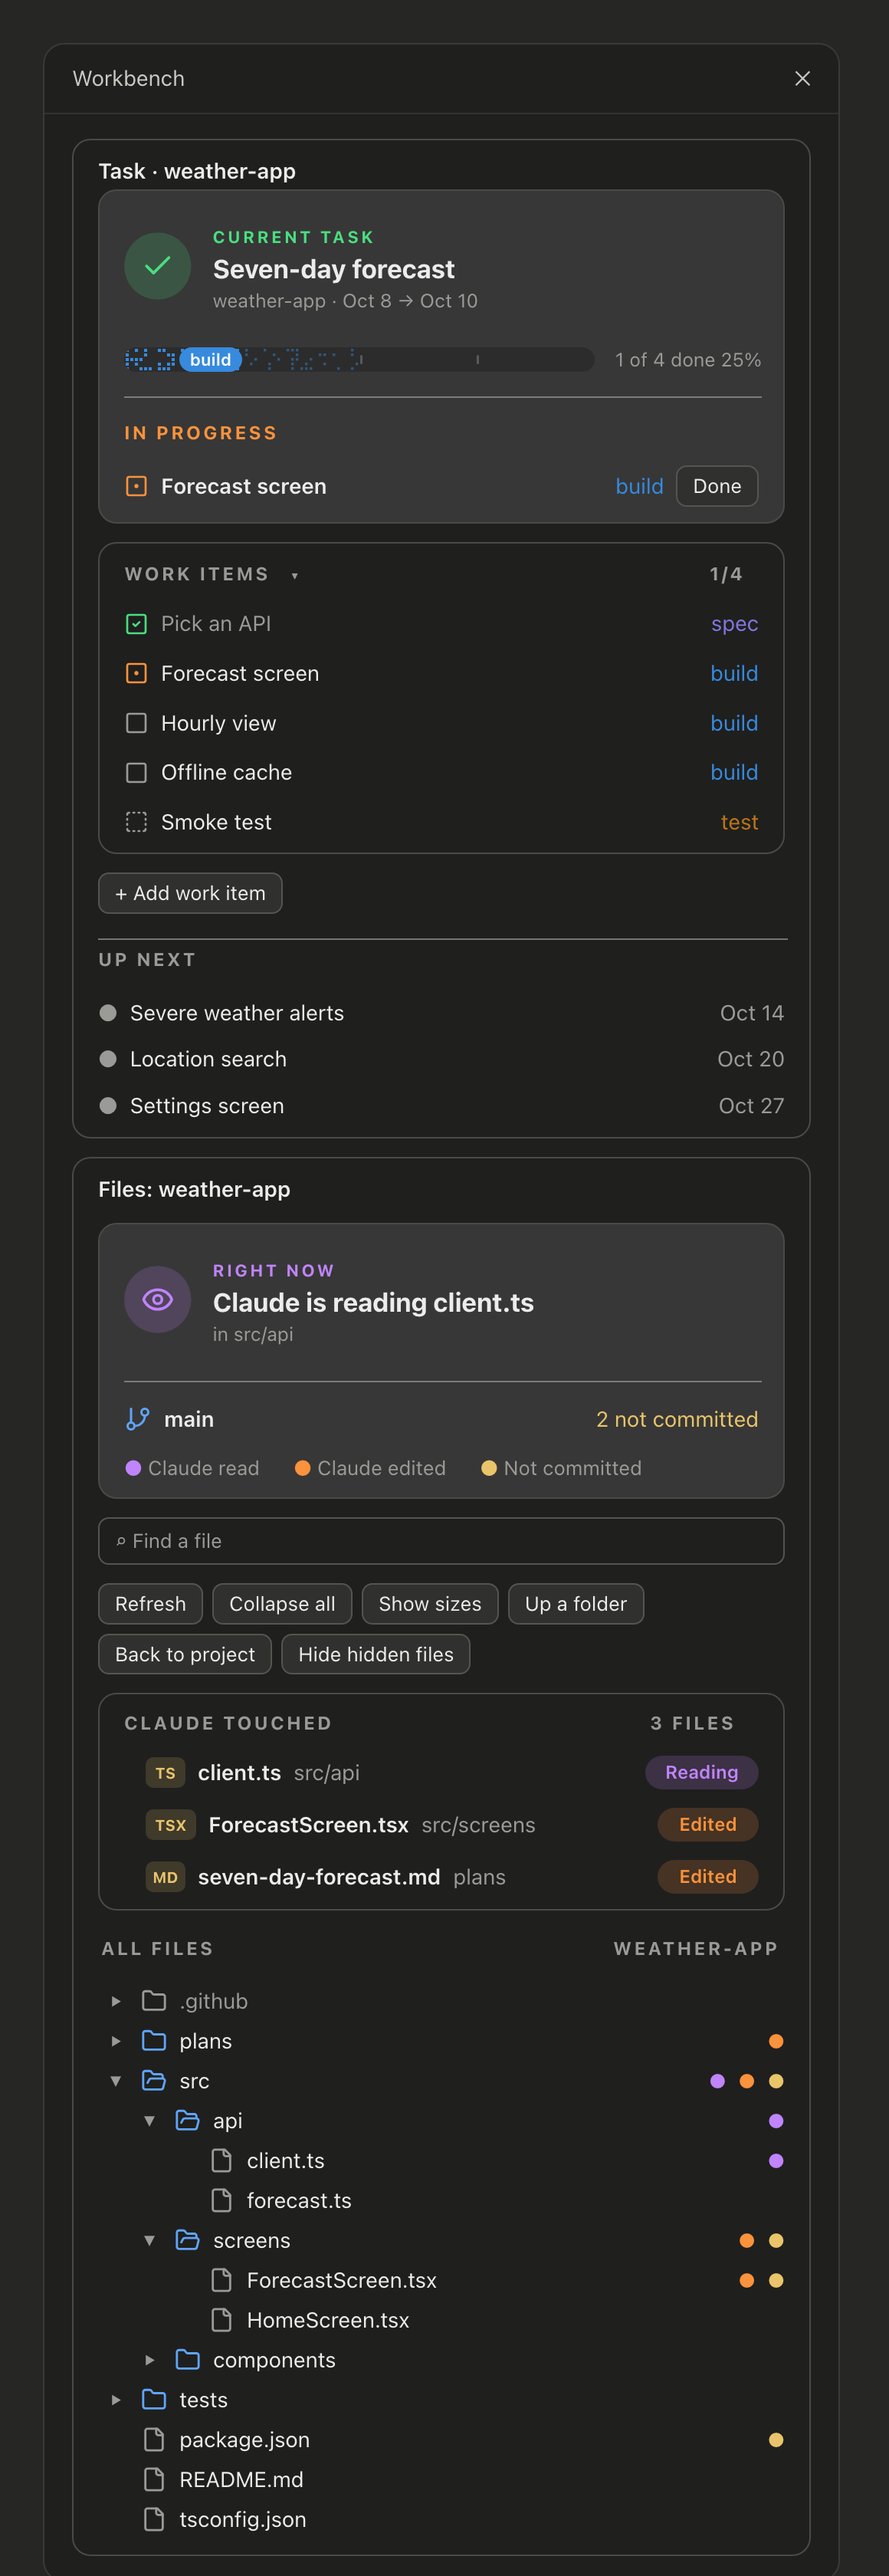
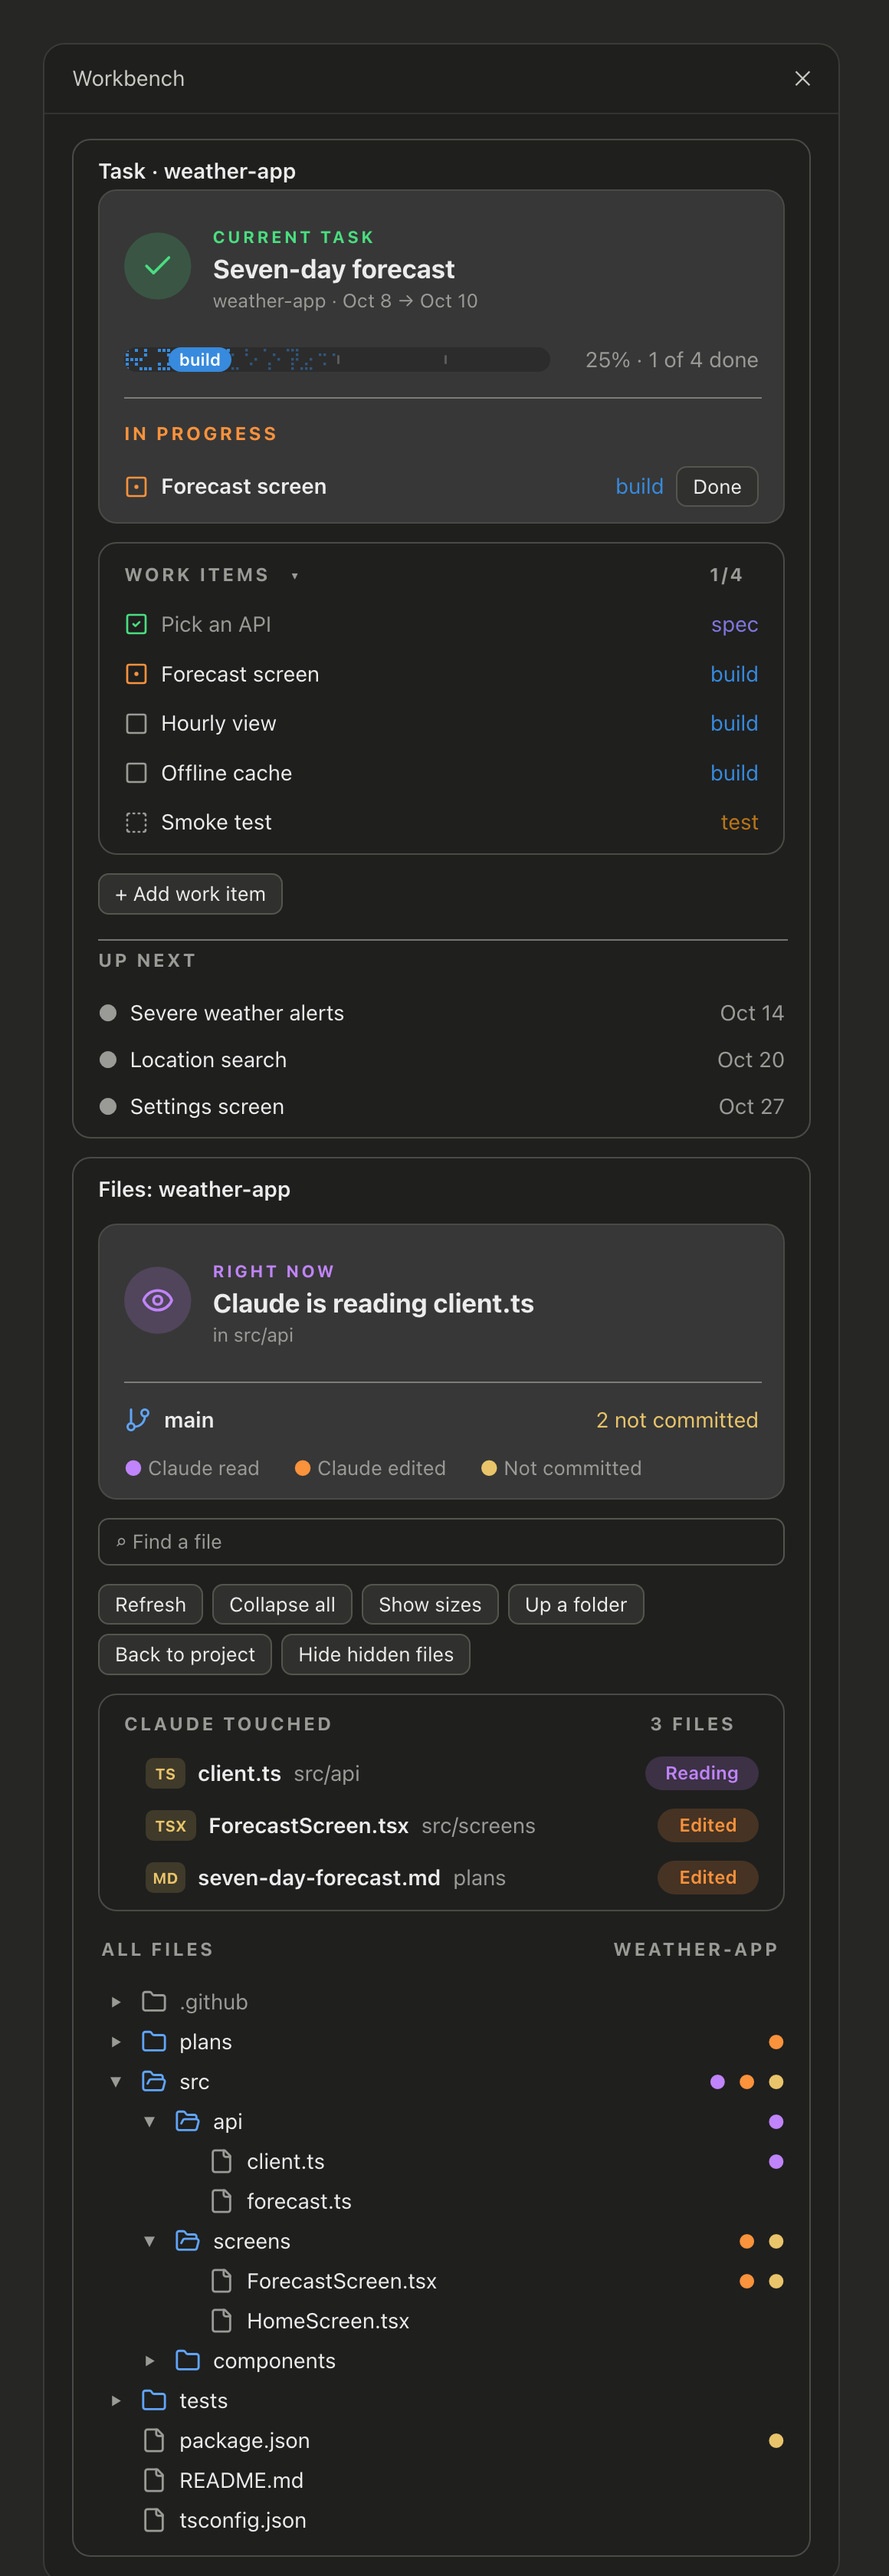
Pane bar row: the band's bar, then '0% · n of m done' flush with the card's right edge; mockup redrawn; 0.1.17

diff --git a/hooks/register.tsx b/hooks/register.tsx
@@ -3,7 +3,7 @@ import type { EngineInterface, Hook, Register } from 'claude-code'
 
 import type { DevEntry, Entry, Files, Git, Group, PaneUi, Snap, Touch, Activity, WorkbenchUi, WorkItem } from '../types'
 import type { BarIn } from './draw'
-import { ACCENT, bandBarSvg, bandTitleSvg, DOING, DONE, MUTED, STAGE_COLOR } from './draw'
+import { ACCENT, bandBarSvg, bandTitleSvg, DOING, DONE, MUTED, paneBarSvg, STAGE_COLOR } from './draw'
 import { activeItem, byStatus, clip, counts, localDate, newId, nextStatus, parseAdd, STAGES, TITLE_MAX, withStages } from './logic'
 import type { Plan, PlanFront } from './plans'
 import { allDone, devEntryOf, newPlanText, newTaskKey, parsePlan, plansDirName, setFront, setItems, snapshotOfPlans } from './plans'
@@ -691,6 +691,9 @@ export const register: Register = (on, options) => {
       const doing = cur.items.filter(i => i.status === 'doing')
       const total = cur.items.length
       const pct = total ? Math.round((done / total) * 100) : 0
+      // The bar takes the row less its text (about 7 px a character) and a gap.
+      const tail = `${pct}% · ${total ? `${done} of ${total} done` : 'not broken down'}`
+      const barW = Math.max(60, room(2) - tail.length * 7 - 12)
       const when = cur.start === cur.end ? shortDate(cur.start) : `${shortDate(cur.start)} → ${shortDate(cur.end)}`
       // Each stage in its own color, the one the band's bar takes while that stage is current.
       const stageTag = (key: string, stage: string) => <Text key={key} color={STAGE_COLOR[stage] ?? MUTED}>{stage}</Text>
@@ -723,8 +726,11 @@ export const register: Register = (on, options) => {
           </Box>
         ),
         Svg ? (
-          // The band's bar: the current stage's color and its pill, the percent at the end.
-          <Box key="ct-bar" marginTop={1} width="100%"><Svg width={room(2)} height={20} alt={`${barIn(cur).pill}, ${pct}% done`} source={bandBarSvg(room(2), barIn(cur), total ? `${done} of ${total} done` : 'not broken down')} /></Box>
+          // The band's bar, then the percent and the count flush with the card's right edge.
+          <Box key="ct-bar" flexDirection="row" justifyContent="space-between" alignItems="center" columnGap={1} marginTop={1} width="100%">
+            <Svg width={barW} height={16} alt={`${barIn(cur).pill}, ${pct}% done`} source={paneBarSvg(barW, barIn(cur))} />
+            <Box flexShrink={0}><Text {...c('muted')}>{tail}</Text></Box>
+          </Box>
         ) : (
           <Text key="ct-bar" wrap="truncate-end">
             <Text {...c('ok')}>{'█'.repeat(Math.round((Math.max(8, cols - 12) * done) / Math.max(1, total)))}</Text>

diff --git a/hooks/draw.ts b/hooks/draw.ts
@@ -78,18 +78,22 @@ function barG(x: number, y: number, W: number, H: number, b: BarIn, id: string, 
 const pct = (b: BarIn) => `${b.total ? Math.round((b.done / b.total) * 100) : 0}%`
 
 /** Band line 2: the bar and the percent, no count. */
-export function bandBarSvg(W: number, b: BarIn, count?: string) {
+export function bandBarSvg(W: number, b: BarIn) {
   const H = 20
   const BAR_H = 16
-  // The pane puts "n of m done" before the percent, on the bar's line.
-  const tail = count ? `${count}  ${pct(b)}` : pct(b)
-  const barW = Math.max(60, W - Math.ceil(textWidth(tail, 12.5)) - 14)
+  const barW = Math.max(60, W - 44)
   return svg(
     W,
     H,
     `${barG(0, (H - BAR_H) / 2, barW, BAR_H, b, 'bb')}
-<text class="m" x="${W}" y="${H / 2 + 4.5}" text-anchor="end" font-family="${FONT}" font-size="12.5" font-variant-numeric="tabular-nums">${xml(tail)}</text>`,
+<text class="m" x="${W}" y="${H / 2 + 4.5}" text-anchor="end" font-family="${FONT}" font-size="12.5" font-variant-numeric="tabular-nums">${pct(b)}</text>`,
   )
+}
+
+/** The pane's bar alone, the band's look; the pane puts its percent and count beside it as text. */
+export function paneBarSvg(W: number, b: BarIn) {
+  const H = 16
+  return `<svg xmlns="http://www.w3.org/2000/svg" width="${W}" height="${H}" viewBox="0 0 ${W} ${H}">${CSS}${barG(0, 0, W, H, b, 'pb')}</svg>`
 }
 
 /** Band line 1: status dot, project, task title, the item in hand. */
